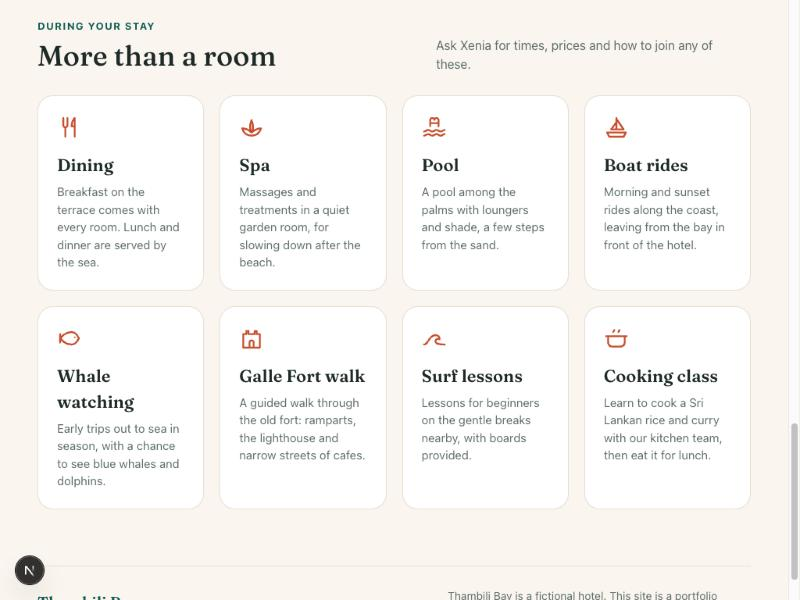
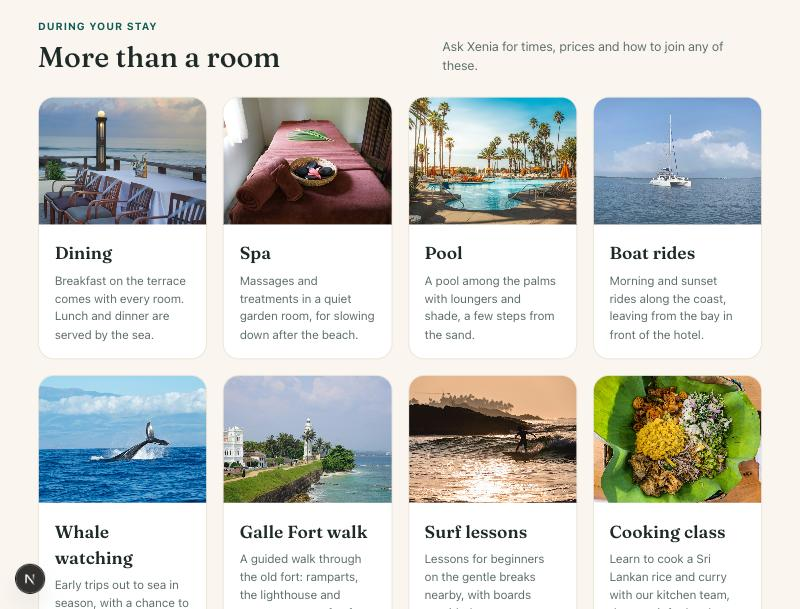
feat: add photos to the experience cards (web-0005)

diff --git a/src/app/page.tsx b/src/app/page.tsx
@@ -62,49 +62,49 @@ const EXPERIENCES = [
     id: "dining",
     title: "Dining",
     text: "Breakfast on the terrace comes with every room. Lunch and dinner are served by the sea.",
-    icon: "M6 3v7a2 2 0 0 0 4 0V3M8 12v9M17 3c-2 2-3 4.5-3 8h3zM17 11v10",
+    alt: "A table set for a meal beside the ocean",
   },
   {
     id: "spa",
     title: "Spa",
     text: "Massages and treatments in a quiet garden room, for slowing down after the beach.",
-    icon: "M12 20c-5 0-8-3-9-7 3 0 6 1 9 4 3-3 6-4 9-4-1 4-4 7-9 7zM12 17c-2-3-2-7 0-12 2 5 2 9 0 12z",
+    alt: "A massage bed prepared with towels and flowers",
   },
   {
     id: "pool",
     title: "Pool",
     text: "A pool among the palms with loungers and shade, a few steps from the sand.",
-    icon: "M2 16c2 0 2-1.5 4-1.5S8 16 10 16s2-1.5 4-1.5 2 1.5 4 1.5 2-1.5 4-1.5M2 20c2 0 2-1.5 4-1.5S8 20 10 20s2-1.5 4-1.5 2 1.5 4 1.5 2-1.5 4-1.5M8 11V5a2 2 0 0 1 4 0M16 11V5a2 2 0 0 0-4 0M8 8h8",
+    alt: "A swimming pool surrounded by palm trees",
   },
   {
-    id: "boat-rides",
+    id: "boat",
     title: "Boat rides",
     text: "Morning and sunset rides along the coast, leaving from the bay in front of the hotel.",
-    icon: "M3 17l2 4h14l2-4zM12 3v11M12 4l7 10h-7M12 7l-5 7h5",
+    alt: "A white catamaran on a calm blue sea",
   },
   {
-    id: "whale-watching",
+    id: "whale",
     title: "Whale watching",
-    text: "Early trips out to sea in season, with a chance to see blue whales and dolphins.",
-    icon: "M3 12c3-4 7-6 11-6 3 0 5 2 7 6-2 4-4 6-7 6-4 0-8-2-11-6zM17 11h.01M3 8v8",
+    text: "Early trips out to sea in season, with a chance to see whales and dolphins.",
+    alt: "A whale's tail rising out of the ocean",
   },
   {
-    id: "galle-fort",
+    id: "fort",
     title: "Galle Fort walk",
     text: "A guided walk through the old fort: ramparts, the lighthouse and narrow streets of cafes.",
-    icon: "M4 21V8h3V5h2v3h6V5h2v3h3v13zM10 21v-5a2 2 0 0 1 4 0v5",
+    alt: "The lighthouse and ramparts of Galle Fort above the sea",
   },
   {
     id: "surf",
     title: "Surf lessons",
     text: "Lessons for beginners on the gentle breaks nearby, with boards provided.",
-    icon: "M2 18c4 0 5-9 11-9 3 0 4 2 4 4-2-1-4 0-4 2s3 3 9 3",
+    alt: "A surfer riding a small wave at sunset",
   },
   {
     id: "cooking",
     title: "Cooking class",
     text: "Learn to cook a Sri Lankan rice and curry with our kitchen team, then eat it for lunch.",
-    icon: "M4 10h16v6a4 4 0 0 1-4 4H8a4 4 0 0 1-4-4zM2 10h20M9 6c0-1 1-1 1-2M14 6c0-1 1-1 1-2",
+    alt: "Sri Lankan rice and curry served on a banana leaf",
   },
 ];
 
@@ -214,12 +214,14 @@ export default function Home() {
         </div>
         <ul className="mt-7 grid gap-5 sm:grid-cols-2 lg:grid-cols-4">
           {EXPERIENCES.map((item) => (
-            <li key={item.id} id={item.id} className="scroll-mt-6 rounded-[20px] border border-line bg-surface p-6">
-              <svg aria-hidden="true" width="32" height="32" viewBox="0 0 24 24" fill="none" stroke="var(--color-accent)" strokeWidth="1.8" strokeLinecap="round" strokeLinejoin="round">
-                <path d={item.icon} />
-              </svg>
-              <h3 className="mt-4 font-serif text-[22px] font-semibold">{item.title}</h3>
-              <p className="mt-1.5 text-[15px] text-muted">{item.text}</p>
+            <li key={item.id} id={item.id} className="scroll-mt-6 overflow-hidden rounded-[20px] border border-line bg-surface">
+              <div className="relative h-40">
+                <Image src={`/images/exp-${item.id}.jpg`} alt={item.alt} fill sizes="(min-width: 1024px) 25vw, (min-width: 640px) 50vw, 100vw" className="object-cover" />
+              </div>
+              <div className="p-5">
+                <h3 className="font-serif text-[22px] font-semibold">{item.title}</h3>
+                <p className="mt-1.5 text-[15px] text-muted">{item.text}</p>
+              </div>
             </li>
           ))}
         </ul>
